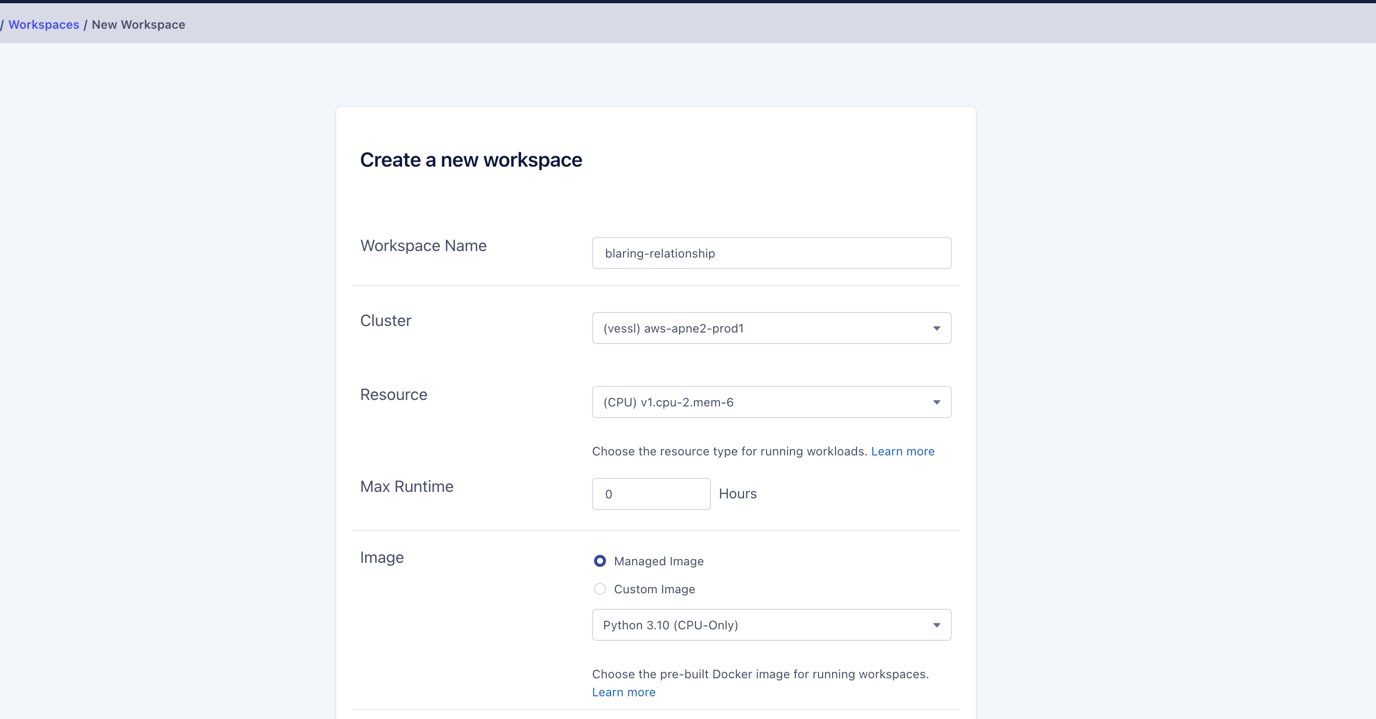
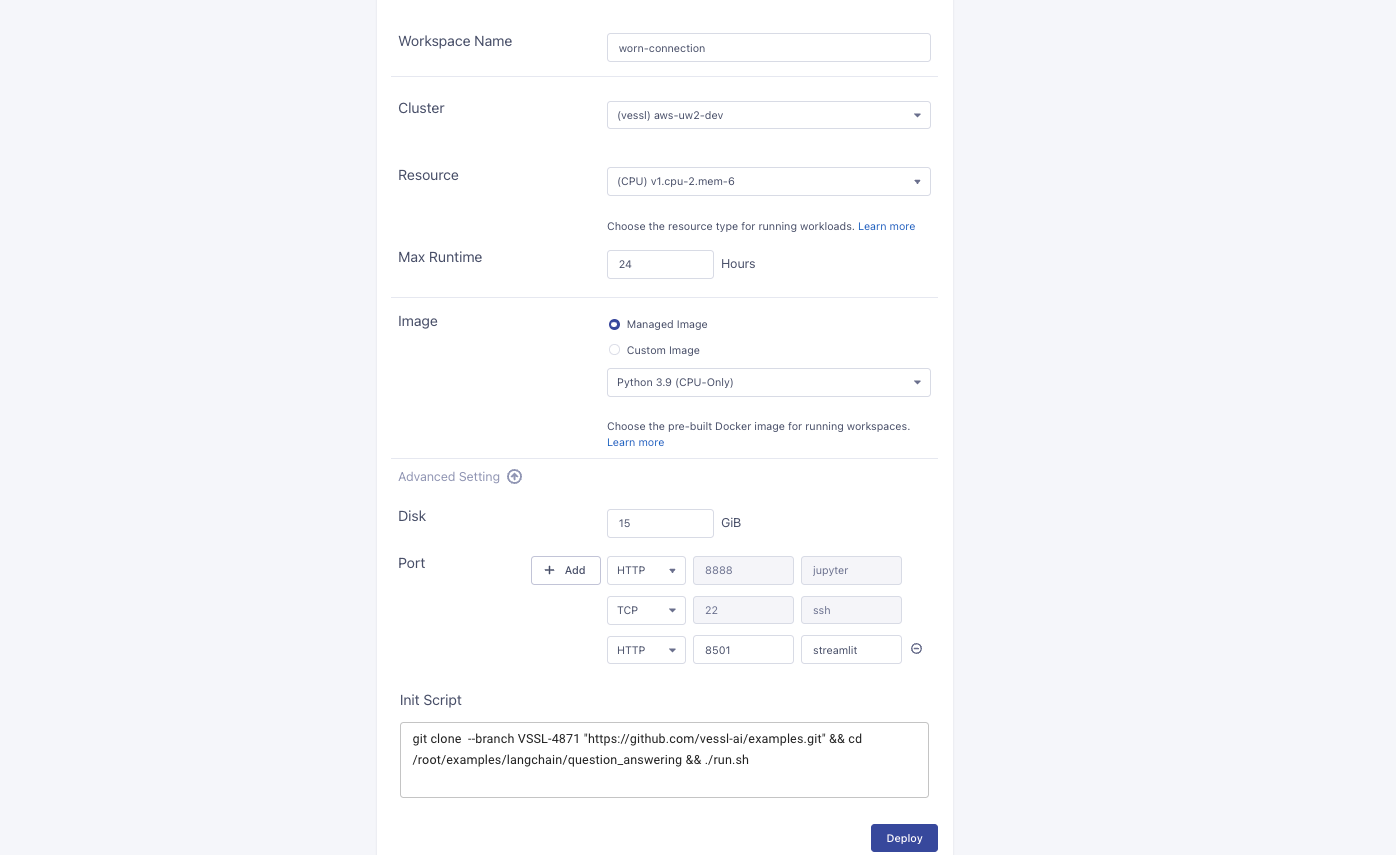
last

diff --git a/langchain/question_answering/readme.md b/langchain/question_answering/readme.md
@@ -4,25 +4,27 @@
 ### You can make server that can access from anywhere
 
 ### 0. Get your OpenAI API
-Get your own OpenAI API key from [here](https://platform.openai.com/account/api-keys)
+###### Get your own OpenAI API key from [here](https://platform.openai.com/account/api-keys)
 
 ### 1. Sign up to [VESSL](https://vessl.ai)
 ![plot](../imgs/signup.png)
 
 ### 2. Make workspace (only cpu is enough)
-You can connect your own GPU server or AWS, GCP cluster
+###### You can connect your own GPU server or AWS, GCP cluster to VESSL
+
+##### 2.1  Expose port 8501 for streamlit in advanced setting
+##### 2.2 copy and paste the code below to the init command
+
+```bash
+git clone  "https://github.com/vessl-ai/examples.git" && cd ~/examples/langchain/question_answering/ && ./run.sh
+```
+
 ![plot](../imgs/workspace.png)
 ![plot](../imgs/workspace_make.png)
 
-### 3. click the upper left Jupyter Notebook
-![plot](../imgs/workspace_log.png)
 
-### 4. copy and paste the code below to the notebook and run it
-```bash
-git clone  "https://github.com/vessl-ai/examples.git" && cd examples/question_answering && ./run.sh
-```
 
-### 4. Follow streamlit link to use your QA chatbot
+### 3. Click Link and Follow streamlit link to use your QA chatbot
 ![plot](../imgs/streamlit_demo.png)
 
 ## [2] Start with your local device
